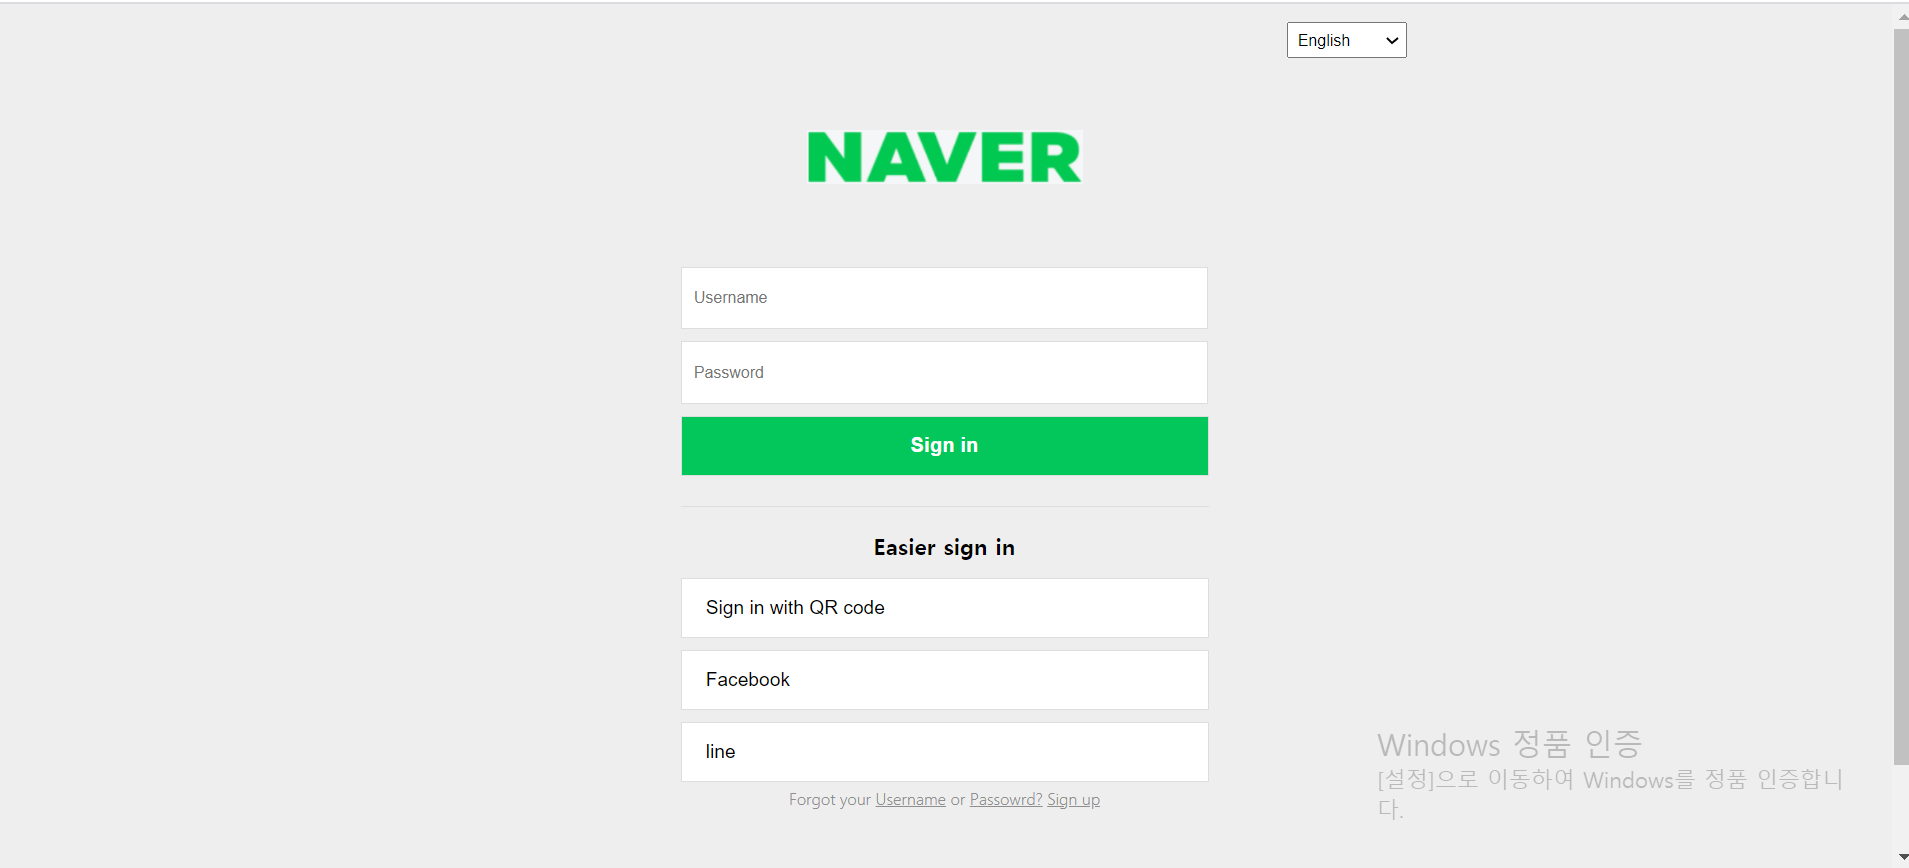
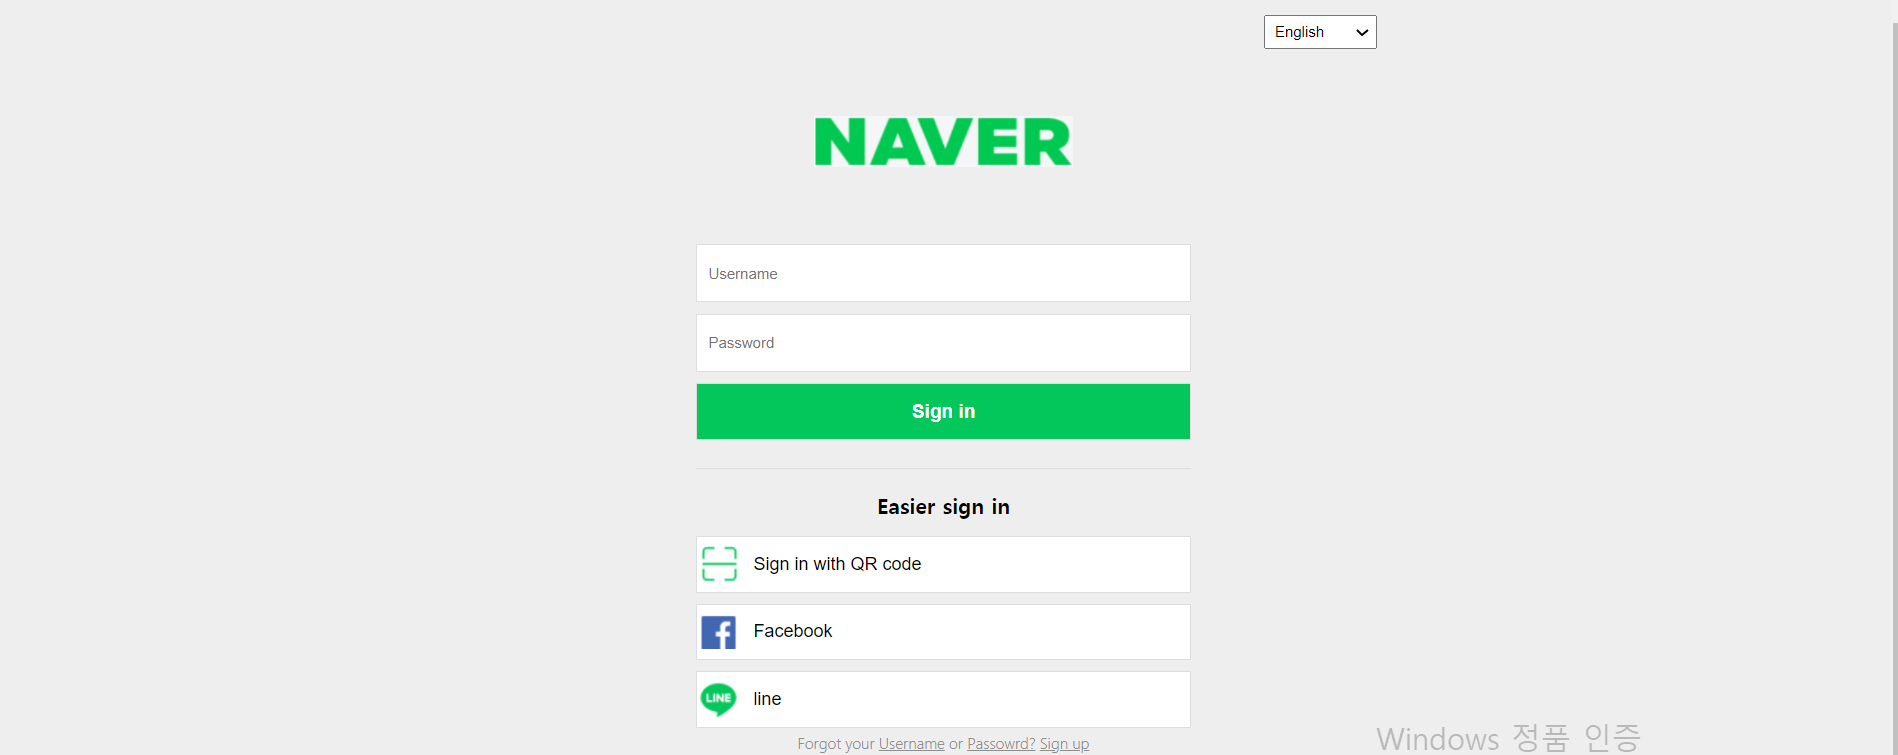
네이버 로그인 화면 수정

diff --git a/vsCode/selfpr/ncs/naverLogin.html b/vsCode/selfpr/ncs/naverLogin.html
@@ -49,9 +49,9 @@
                     <h3>Easier sign in</h3>
                 </div>
                 <div id="footer_box">
-                     <input class="box" type="submit" value="Sign in with QR code">
-                    <input class="box" type="submit" value="Facebook">
-                    <input class="box" type="submit" value="line">
+                     <input id="b1" class="box" type="button" value="Sign in with QR code">
+                    <input id="b2" class="box" type="button" value="Facebook">
+                    <input id="b3" class="box" type="button" value="line">
                 </div>
                 <H5>Forgot your <a href="#">Username</a> or <a href="#">Passowrd?</a> <a href="#">Sign up</a></H5>
             </footer>

diff --git a/vsCode/selfpr/ncs/css/Naver_login.css b/vsCode/selfpr/ncs/css/Naver_login.css
@@ -71,10 +71,26 @@ footer{
 }
 #footer_box>input{
     background-color: #fff;
-    padding: 5px 20px;
-    text-align: left;
+    padding: 5px 50px;
+    text-align:left;
     color: black;
     font-size: 16px;
+}
+/* qr,fb,line icon 설정 */
+#b1{
+    background-image: url(../../../images/qrCodelogo.png);
+    background-repeat: no-repeat;
+    background-position: left;
+}
+#b2{
+    background-image: url(../../../images/fbicon.png);
+    background-repeat: no-repeat;
+    background-position: left;
+}
+#b3{
+    background-image: url(../../../images/lineicon.png);
+    background-repeat: no-repeat;
+    background-position: left;
 }
 footer>h5{
     color: #8e8e8e;
